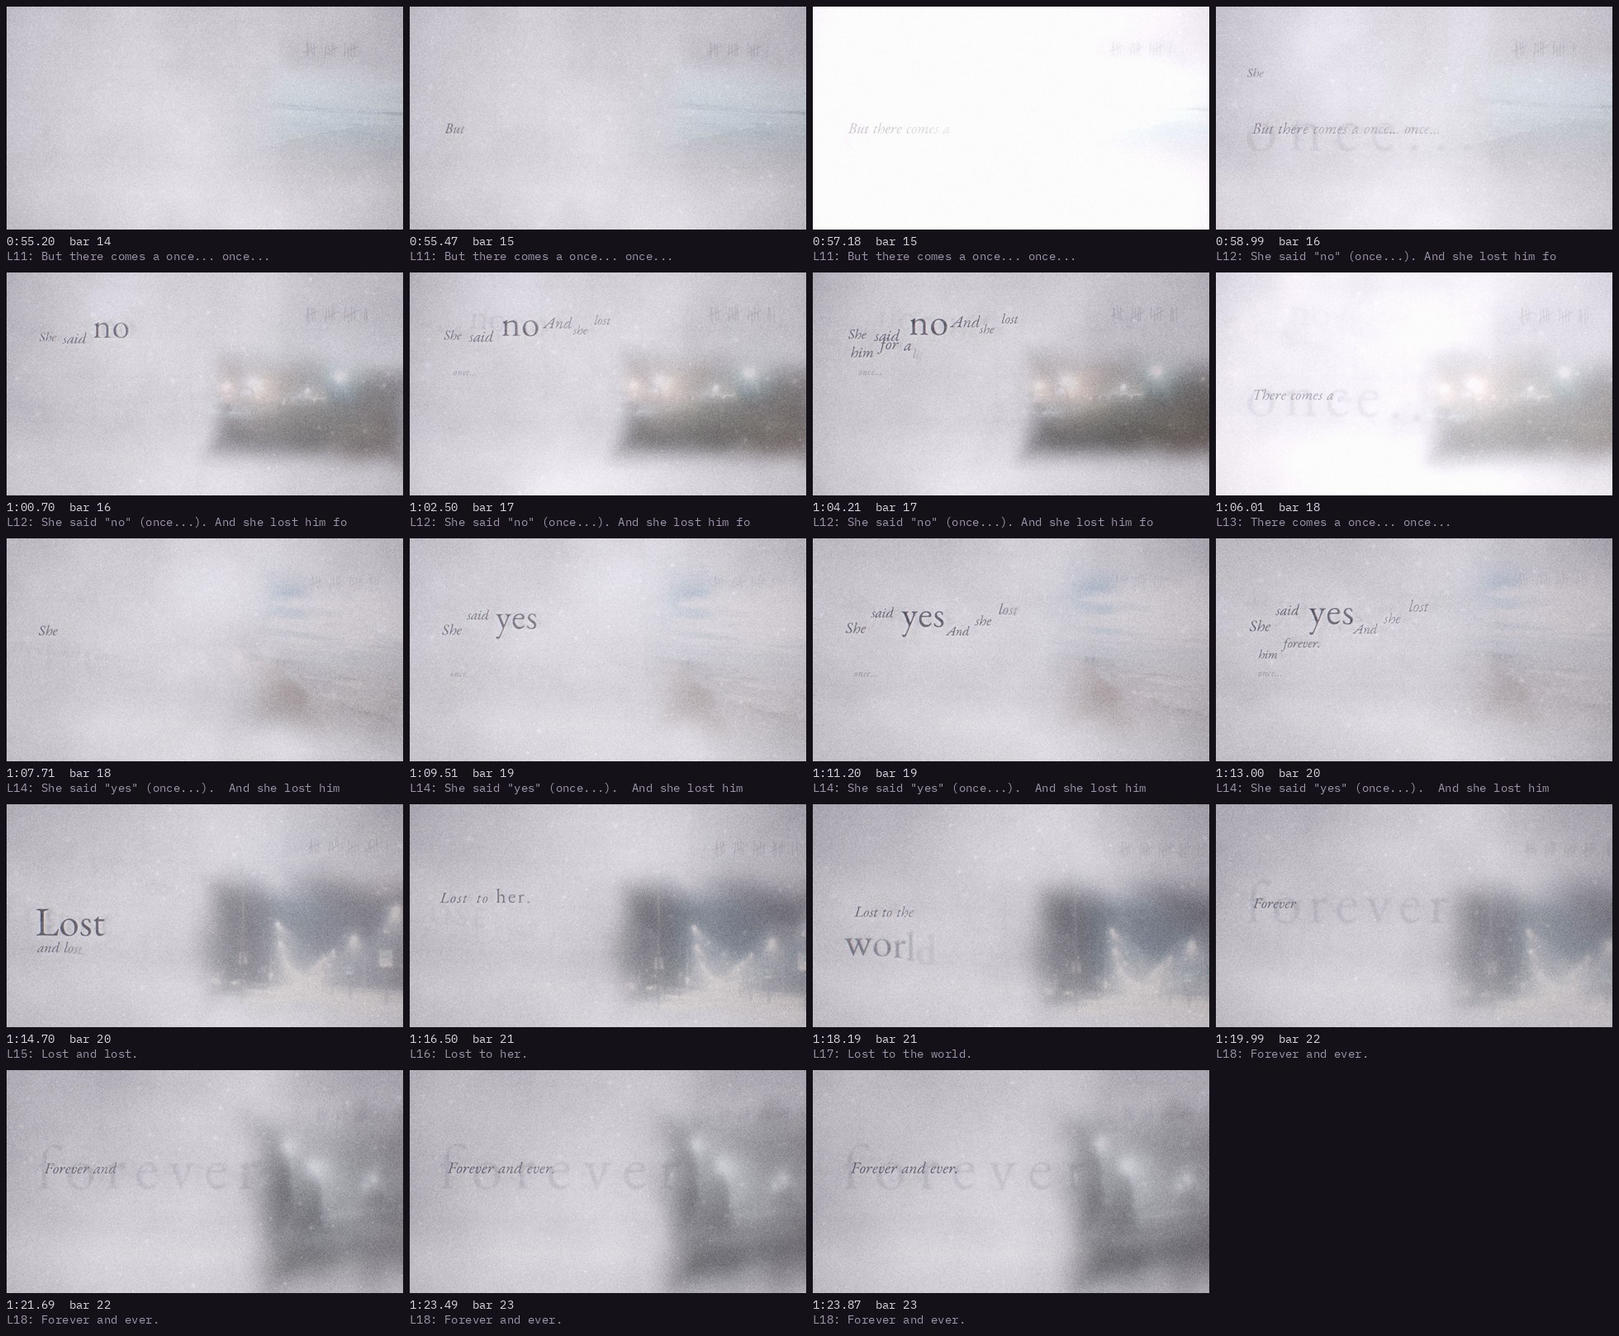
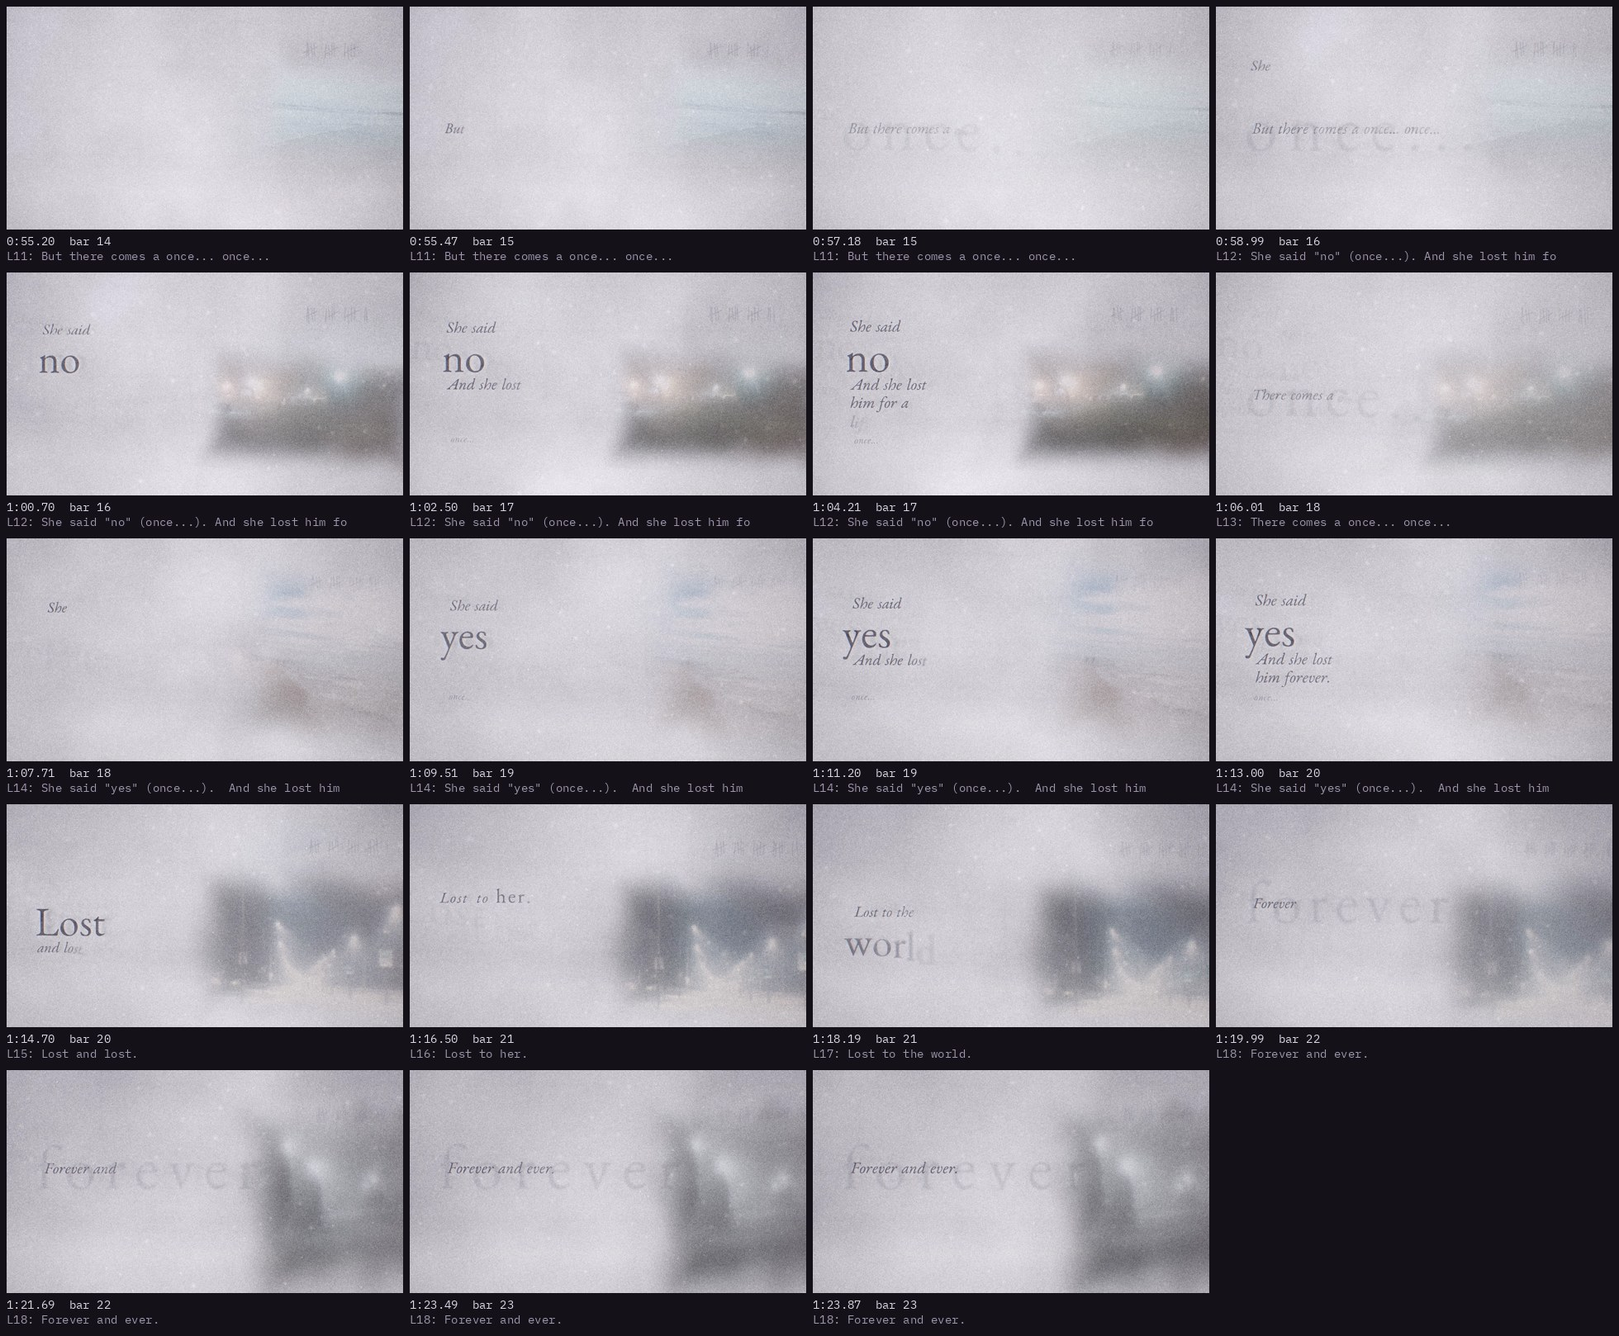
Build 'There comes a once' for review; cleaner layouts for lines 12 and 14
Claude-Session: https://claude.ai/code/session_013aPae8dR11r7xw8o95d9Yi

diff --git a/storyboard/index.html b/storyboard/index.html
@@ -142,7 +142,7 @@ ol.steps li::marker { font: 600 0.85rem var(--mono); color: var(--ink-2); }
   </header>
 
   <section aria-labelledby="h-built">
-    <div class="col"><span class="eyebrow">Built so far</span><h2 id="h-built">Rendered sections</h2></div>
+    <div class="col"><span class="eyebrow">Built so far</span><h2 id="h-built">The film</h2></div>
     <div class="frames">
 <figure class="render" id="render-verse_a">
   <video controls playsinline preload="metadata" poster="renders/verse_a_poster.jpg" width="1280" height="720">
@@ -151,6 +151,14 @@ ol.steps li::marker { font: 600 0.85rem var(--mono); color: var(--ink-2); }
   <figcaption><b>Verse A: Through eyes</b>
     <span class="tc">0:16.9 → 0:55.2 · bars 5–14</span>
     <span class="note">Kinetic typography (a designed shot per line, hero words, per-letter timing, camera through the type) over drifting memory photographs. Web copy at 720p; the 1080p master passed QA and ffprobe. <a href="renders/verse_a_contact.jpg">Contact sheet</a></span></figcaption>
+</figure>
+<figure class="render" id="render-there_comes_a_once">
+  <video controls playsinline preload="metadata" poster="renders/there_comes_a_once_poster.jpg" width="1280" height="720">
+    <source src="renders/there_comes_a_once.mp4" type="video/mp4">
+  </video>
+  <figcaption><b>There comes a once</b>
+    <span class="tc">0:55.2 → 1:24.2 · bars 15–23</span>
+    <span class="note">Two timelines: the &#x27;no&#x27; drifts left, the &#x27;yes&#x27; drifts right; each &#x27;once&#x27; flashes toward white; &#x27;lost to the world&#x27; pulls focus until nothing is sharp. Web copy at 720p; the 1080p master passed QA and ffprobe. <a href="renders/there_comes_a_once_contact.jpg">Contact sheet</a></span></figcaption>
 </figure></div>
   </section>
 
@@ -583,6 +591,21 @@ ol.steps li::marker { font: 600 0.85rem var(--mono); color: var(--ink-2); }
   </section>
 </div>
 
+<script src="https://cdnjs.cloudflare.com/ajax/libs/hls.js/1.5.13/hls.min.js"></script>
+<script>
+(function () {
+  const v = document.getElementById('film');
+  if (!v) return;
+  const src = v.dataset.src;
+  if (v.canPlayType('application/vnd.apple.mpegurl')) { v.src = src; return; }
+  if (window.Hls && Hls.isSupported()) {
+    const h = new Hls({ maxBufferLength: 30 });
+    h.loadSource(src); h.attachMedia(v);
+  } else {
+    v.insertAdjacentHTML('afterend', '<p class="note">This browser can’t stream the film. Try a recent Chrome, Firefox or Safari.</p>');
+  }
+})();
+</script>
 <script>
 const D = {"duration":493.6209977324263,"loud_t":0.5,"loud":[-47.0,-80.9,-60.6,-44.5,-39.1,-36.3,-33.6,-30.7,-28.0,-27.2,-27.0,-26.6,-26.8,-26.0,-24.4,-24.1,-24.0,-23.0,-23.1,-21.6,-19.4,-18.7,-19.1,-21.8,-23.9,-24.4,-25.6,-25.4,-24.3,-24.4,-23.7,-23.2,-22.7,-23.0,-23.6,-22.5,-20.9,-20.0,-19.8,-19.4,-20.0,-20.2,-19.6,-19.3,-19.4,-19.2,-19.6,-21.1,-21.5,-21.8,-20.6,-19.3,-19.1,-19.4,-20.7,-20.8,-18.9,-18.8,-20.3,-19.6,-19.8,-19.6,-18.9,-20.0,-19.6,-19.3,-19.3,-20.2,-21.0,-20.3,-19.4,-19.6,-19.8,-18.8,-19.3,-19.7,-19.1,-19.8,-20.5,-20.8,-20.3,-20.5,-21.3,-20.9,-19.7,-20.1,-21.0,-19.7,-19.5,-19.1,-18.7,-18.6,-18.3,-19.2,-19.5,-19.6,-19.4,-19.4,-19.2,-18.7,-20.4,-20.7,-19.5,-19.4,-19.7,-18.3,-17.4,-19.4,-21.7,-22.3,-22.4,-22.1,-21.6,-21.0,-19.7,-19.1,-18.8,-18.9,-19.1,-18.2,-18.4,-19.2,-18.6,-18.2,-18.2,-18.9,-18.6,-17.8,-17.4,-17.2,-17.7,-18.1,-19.0,-18.8,-18.6,-18.7,-17.7,-18.1,-18.6,-18.9,-18.6,-17.8,-17.5,-17.6,-18.3,-18.1,-17.7,-17.6,-18.0,-18.4,-17.7,-18.0,-17.8,-17.4,-17.8,-17.6,-17.2,-17.6,-18.4,-17.7,-17.5,-17.8,-18.6,-18.9,-17.7,-17.5,-17.3,-16.9,-17.1,-17.7,-18.2,-18.1,-17.5,-17.8,-18.1,-17.3,-17.4,-17.7,-17.1,-17.1,-16.9,-17.8,-17.6,-17.2,-17.5,-17.5,-17.9,-17.7,-17.5,-17.0,-16.9,-17.4,-17.5,-18.4,-18.9,-18.3,-17.1,-17.1,-17.4,-16.6,-17.3,-17.6,-16.9,-16.1,-16.5,-17.4,-17.1,-17.2,-17.3,-17.0,-16.1,-16.2,-16.9,-16.7,-17.3,-17.4,-16.4,-15.7,-16.1,-17.4,-17.6,-18.0,-18.2,-16.4,-15.7,-15.9,-15.7,-16.2,-17.5,-18.1,-18.7,-18.6,-19.4,-18.0,-16.2,-17.6,-18.0,-18.1,-18.2,-22.3,-22.2,-17.0,-16.5,-17.2,-17.2,-16.7,-17.2,-17.2,-17.6,-18.2,-17.6,-18.1,-17.2,-18.1,-19.3,-17.9,-17.7,-17.0,-16.5,-15.8,-15.5,-16.1,-17.0,-17.5,-17.4,-17.9,-17.2,-17.6,-18.6,-17.1,-16.2,-16.2,-16.4,-15.6,-15.1,-16.2,-17.1,-17.0,-16.9,-17.4,-16.6,-16.3,-17.0,-17.3,-16.9,-16.6,-16.2,-15.3,-15.8,-16.2,-16.6,-16.9,-16.8,-16.9,-16.2,-16.4,-16.5,-15.5,-15.2,-15.5,-15.3,-14.5,-14.8,-15.4,-15.6,-15.6,-15.4,-15.8,-16.1,-15.5,-15.6,-16.1,-16.4,-16.1,-15.1,-14.9,-14.8,-15.8,-16.2,-15.5,-15.4,-15.7,-16.0,-15.8,-17.0,-17.1,-16.8,-16.7,-15.6,-15.5,-15.3,-15.5,-15.3,-15.6,-15.9,-15.7,-15.8,-15.8,-16.2,-16.1,-15.8,-15.9,-15.3,-15.2,-15.0,-14.9,-15.6,-15.6,-15.5,-15.4,-15.8,-16.2,-16.2,-16.6,-16.0,-15.4,-15.2,-15.3,-15.4,-15.2,-15.7,-15.6,-15.2,-15.3,-15.7,-16.2,-18.4,-22.2,-22.6,-21.9,-23.3,-25.0,-22.7,-20.3,-21.3,-21.5,-22.4,-24.0,-22.9,-21.5,-21.7,-22.4,-22.6,-22.2,-21.2,-21.2,-21.5,-21.8,-21.1,-19.8,-20.1,-18.7,-16.5,-16.1,-16.5,-16.8,-16.6,-15.9,-15.8,-16.2,-16.5,-16.9,-16.8,-16.2,-15.6,-15.7,-16.0,-16.0,-16.4,-16.4,-16.0,-15.9,-15.8,-16.1,-16.2,-16.5,-16.9,-16.2,-15.7,-15.9,-16.5,-16.6,-17.0,-16.9,-16.1,-16.2,-16.0,-16.4,-16.6,-16.6,-16.3,-15.6,-15.7,-15.9,-16.3,-16.7,-16.8,-16.7,-16.0,-15.9,-16.2,-16.2,-16.5,-16.4,-16.4,-15.9,-16.0,-16.4,-16.5,-16.8,-16.6,-16.3,-16.1,-15.8,-16.0,-16.2,-16.9,-16.7,-15.8,-15.8,-15.9,-16.6,-16.8,-16.7,-16.6,-16.1,-16.2,-16.1,-16.3,-16.6,-16.5,-16.5,-15.8,-15.7,-16.1,-16.5,-16.6,-16.6,-16.3,-15.3,-15.6,-16.1,-15.5,-15.8,-15.9,-15.4,-14.8,-14.8,-15.5,-15.8,-16.4,-16.5,-15.7,-15.3,-15.4,-16.0,-15.7,-15.6,-15.6,-14.7,-15.0,-15.4,-15.7,-16.3,-16.6,-16.5,-15.6,-15.6,-16.1,-16.0,-16.4,-16.4,-15.7,-15.3,-15.2,-16.1,-16.6,-16.2,-15.6,-15.4,-15.3,-15.5,-16.2,-16.5,-16.2,-15.4,-15.3,-15.3,-15.1,-15.6,-15.9,-15.8,-15.6,-15.8,-15.8,-15.8,-16.2,-16.7,-16.2,-15.4,-16.0,-17.4,-19.4,-19.4,-22.8,-25.1,-19.5,-15.9,-16.1,-16.4,-16.6,-17.0,-16.3,-15.5,-15.7,-16.1,-16.0,-16.4,-16.5,-16.6,-16.8,-17.4,-17.4,-16.3,-16.0,-17.4,-18.8,-18.2,-18.3,-17.4,-16.0,-16.8,-17.2,-17.4,-17.8,-18.0,-18.0,-16.8,-16.7,-17.7,-17.5,-17.2,-17.3,-17.6,-16.8,-16.8,-17.4,-17.3,-17.2,-17.3,-17.6,-16.7,-16.3,-16.9,-17.0,-17.6,-17.6,-17.6,-17.3,-17.0,-18.8,-18.8,-18.3,-18.5,-17.6,-16.7,-17.0,-17.3,-16.6,-16.7,-17.2,-16.9,-16.6,-17.1,-17.4,-17.6,-17.1,-16.7,-16.8,-17.3,-17.3,-16.9,-16.4,-16.5,-16.9,-17.0,-17.7,-17.3,-16.2,-17.6,-17.7,-17.0,-17.1,-17.0,-17.7,-17.4,-17.8,-17.6,-16.8,-16.7,-17.0,-17.6,-17.1,-16.7,-16.9,-16.5,-16.4,-17.1,-17.6,-17.1,-16.9,-16.9,-16.8,-17.3,-16.9,-16.8,-16.9,-16.7,-17.1,-17.4,-17.6,-17.3,-16.6,-16.3,-16.6,-16.6,-16.2,-16.8,-17.5,-17.5,-18.3,-18.6,-18.1,-17.7,-18.0,-18.7,-18.6,-18.6,-18.4,-17.3,-17.1,-17.8,-18.0,-17.8,-17.8,-18.2,-17.7,-18.2,-19.6,-18.8,-18.3,-18.4,-17.8,-16.8,-17.5,-18.3,-17.7,-18.0,-17.8,-17.6,-17.6,-17.7,-18.7,-18.4,-18.6,-18.7,-17.7,-17.2,-17.3,-17.8,-18.1,-18.4,-18.4,-17.5,-17.7,-18.6,-18.8,-18.3,-17.7,-17.7,-18.1,-18.6,-18.5,-17.5,-18.0,-18.9,-18.4,-18.1,-18.6,-18.5,-17.5,-18.6,-19.1,-18.0,-17.7,-18.1,-18.4,-18.0,-18.7,-18.8,-17.9,-18.1,-18.6,-18.1,-18.2,-18.8,-18.8,-18.0,-18.2,-18.6,-18.1,-18.8,-19.2,-18.6,-17.8,-18.7,-19.5,-18.3,-18.5,-19.1,-18.6,-18.6,-18.4,-18.6,-18.7,-18.7,-18.6,-17.8,-18.1,-18.3,-18.4,-18.6,-18.3,-18.5,-18.2,-18.1,-18.4,-17.6,-17.3,-17.7,-18.3,-18.3,-18.4,-18.8,-18.3,-18.0,-17.7,-17.0,-16.7,-17.2,-17.7,-17.6,-17.4,-17.3,-16.7,-16.8,-17.9,-17.6,-17.9,-18.8,-18.6,-18.3,-18.0,-18.3,-17.6,-17.3,-17.8,-18.4,-18.5,-18.6,-19.1,-18.7,-18.6,-18.5,-17.9,-17.7,-17.9,-19.2,-19.1,-18.7,-18.5,-17.9,-18.3,-17.9,-17.6,-18.0,-18.5,-18.3,-17.2,-17.2,-17.8,-17.6,-17.6,-18.0,-18.5,-18.2,-17.7,-18.1,-17.8,-18.7,-19.3,-17.8,-17.3,-18.2,-18.9,-17.7,-17.7,-18.5,-17.8,-17.8,-19.1,-19.6,-18.1,-18.2,-18.4,-17.8,-18.7,-18.6,-17.0,-17.0,-18.3,-18.4,-17.4,-16.6,-17.2,-18.0,-17.7,-17.3,-18.4,-18.3,-18.1,-18.4,-17.4,-17.2,-17.9,-18.9,-18.2,-17.9,-18.8,-18.5,-18.9,-19.0,-19.0,-18.4,-17.4,-18.1,-18.3,-19.0,-19.2,-18.9,-18.5,-17.4,-18.2,-18.4,-18.7,-19.2,-18.1,-17.5,-18.0,-21.7,-25.5,-22.3,-19.1,-21.2,-21.3,-19.6,-18.5,-17.5,-17.4,-17.3,-17.0,-17.5,-17.4,-17.2,-17.2,-17.0,-17.6,-17.8,-17.5,-17.5,-18.0,-18.1,-18.1,-18.1,-17.3,-17.0,-17.6,-17.7,-17.5,-17.2,-17.4,-17.4,-18.1,-18.9,-18.1,-18.2,-18.3,-17.5,-17.0,-17.6,-18.4,-17.8,-18.0,-18.4,-17.6,-17.5,-18.2,-18.3,-17.7,-17.8,-18.0,-17.5,-17.5,-17.3,-16.9,-17.5,-18.0,-17.5,-17.2,-18.7,-18.9,-17.1,-17.3,-17.2,-17.1,-17.0,-16.7,-17.0,-16.8,-16.8,-16.8,-16.7,-16.6,-16.3,-16.9,-17.0,-16.7,-16.7,-16.2,-16.3,-16.7,-16.6,-16.3,-16.7,-20.1,-27.7,-36.8,-26.0],"bars":[0.418,3.3672,6.828,10.3616,13.9019,20.0866,23.6284,27.166,30.705,34.2453,37.7775,41.3056,44.8364,48.3672,51.8966,55.4247,58.9432,62.4535,65.9583,69.4563,72.9503,76.4456,79.9436,83.4389,84.3103,87.7974,91.2804,94.7606,98.2423,101.7212,105.1932,106.9279,110.4013,113.898,116.5382,120.0677,123.5971,127.1156,130.6327,134.1458,137.6424,141.1268,144.6016,148.0764,151.5416,155.0014,158.4543,161.9045,165.3575,168.8063,172.2511,175.6876,179.1187,182.5498,183.4076,186.8428,190.2739,193.7063,196.2769,199.6971,203.12,206.5429,209.9617,213.3764,216.7911,220.2071,223.6136,227.0119,230.4089,233.8045,237.1973,240.5874,243.9748,247.3581,250.74,255.8019,259.1688,262.4565,264.5067,266.5774,269.8992,271.5341,276.0757,279.4877,282.9037,283.756,287.168,290.5745,293.9837,297.3998,300.8131,304.2251,307.6357,311.0477,314.4569,317.8648,321.2699,324.671,328.072,331.4676,334.0122,337.401,340.7856,344.173,347.5604,350.9437,354.3283,357.7075,361.0908,367.0132,370.3938,373.7757,377.1563,380.5368,383.9146,387.2952,390.673,394.0467,396.5832,399.961,403.332,406.7002,410.0767,413.4559,416.8378,417.686,421.0884,424.5086,427.9369,431.3653,434.7977,438.2288,441.6572,445.0883,448.5194,451.9491,452.8055,456.2325,459.6581,463.0865,466.5039,469.9036,473.2882,476.6715,480.0575,483.4449,486.8296,490.206,493.5634],"sections":[{"name":"Intro","start":0.0,"end":16.92,"world":"void","bar":0},{"name":"Verse A: Through eyes","start":16.92,"end":55.2,"world":"her","bar":5},{"name":"There comes a once","start":55.2,"end":84.15,"world":"memory","bar":15},{"name":"Refrain I: Stay lost now girl","start":84.15,"end":106.35,"world":"her","bar":24},{"name":"Break I","start":106.35,"end":116.47,"world":"institute","bar":31},{"name":"White Coats I","start":116.47,"end":151.81,"world":"institute","bar":34},{"name":"They brought a man","start":151.81,"end":183.43,"world":"memory","bar":45},{"name":"Spoken I: I can help you find","start":183.43,"end":195.57,"world":"memory","bar":55},{"name":"Break II","start":195.57,"end":208.42,"world":"memory","bar":58},{"name":"White Coats II","start":208.42,"end":252.73,"world":"institute","bar":62},{"name":"A gun and a bullet","start":252.73,"end":273.81,"world":"institute","bar":75},{"name":"Spoken II: I won't lose you","start":273.81,"end":283.79,"world":"memory","bar":82},{"name":"The Run","start":283.79,"end":318.0,"world":"run","bar":86},{"name":"But...","start":318.0,"end":332.45,"world":"void","bar":96},{"name":"White Coats III","start":332.45,"end":363.99,"world":"institute","bar":100},{"name":"The Cutting","start":363.99,"end":396.63,"world":"memory","bar":109},{"name":"Refrain II: Stay lost now girl","start":396.63,"end":417.57,"world":"her","bar":119},{"name":"Verse A reprise","start":417.57,"end":452.07,"world":"her","bar":125},{"name":"Outro","start":452.07,"end":493.621,"world":"void","bar":136}],"lines":[{"n":1,"s":16.92,"e":20.3,"x":"Through eyes that were hers and weren't","pin":true},{"n":2,"s":20.45,"e":24.02,"x":"Through years that weren't hers and were","pin":true},{"n":3,"s":24.02,"e":27.46,"x":"Left in rooms she couldn't leave","pin":false},{"n":4,"s":27.46,"e":30.86,"x":"Learning a self she couldn't learn","pin":false},{"n":5,"s":30.86,"e":35.28,"x":"And a voice came to her (sweet, so sweet)","pin":false},{"n":6,"s":35.28,"e":42.96,"x":"A hand, as ever as it was once (good, so good)","pin":false},{"n":7,"s":43.7,"e":46.96,"x":"She got lost inside him","pin":false},{"n":8,"s":46.96,"e":50.52,"x":"Lost and lost inside him","pin":false},{"n":9,"s":50.52,"e":54.04,"x":"Like she swore she never would.","pin":false},{"n":11,"s":55.2,"e":58.68,"x":"But there comes a once... once...","pin":false},{"n":12,"s":58.68,"e":64.7,"x":"She said \"no\" (once...). And she lost him for a lifetime.","pin":false},{"n":13,"s":64.7,"e":67.28,"x":"There comes a once... once...","pin":false},{"n":14,"s":67.28,"e":73.28,"x":"She said \"yes\" (once...).  And she lost him forever.","pin":false},{"n":15,"s":73.28,"e":75.12,"x":"Lost and lost.","pin":false},{"n":16,"s":75.38,"e":76.6,"x":"Lost to her.","pin":false},{"n":17,"s":76.6,"e":78.47,"x":"Lost to the world.","pin":false},{"n":18,"s":78.47,"e":84.15,"x":"Forever and ever.","pin":false},{"n":20,"s":84.15,"e":89.29,"x":"Stay lost now girl (forever, forever)","pin":false},{"n":21,"s":89.29,"e":92.49,"x":"Throw away everything he found","pin":false},{"n":22,"s":92.49,"e":97.75,"x":"So he never got lost inside you. (again, again)","pin":false},{"n":23,"s":97.75,"e":104.65,"x":"Forever again, forever again.","pin":false},{"n":24,"s":105.17,"e":106.35,"x":"Never again...","pin":false},{"n":26,"s":116.47,"e":118.69,"x":"The white coats said:","pin":false},{"n":27,"s":118.69,"e":123.05,"x":"We've found a girl who is very lost.","pin":false},{"n":28,"s":123.05,"e":126.91,"x":"Scribble scribble, stab stab the charts.","pin":false},{"n":29,"s":126.91,"e":130.23,"x":"Keep her safe in a nice white room.","pin":false},{"n":30,"s":130.23,"e":133.95,"x":"Scribble scribble, stab stab the charts.","pin":false},{"n":31,"s":133.95,"e":137.79,"x":"We\u2019ll find out HOW lost she really is.","pin":false},{"n":32,"s":137.79,"e":140.97,"x":"With time, with time...","pin":false},{"n":33,"s":141.35,"e":144.63,"x":"With time we can find anything.","pin":false},{"n":34,"s":144.63,"e":147.87,"x":"With time, with time...","pin":false},{"n":35,"s":147.87,"e":151.81,"x":"Even a girl who is very hard to find.","pin":false},{"n":37,"s":151.81,"e":153.39,"x":"They brought a man.","pin":false},{"n":38,"s":154.45,"e":158.85,"x":"A man who could find someone hard to find.","pin":false},{"n":39,"s":158.85,"e":164.09,"x":"And in the end, he found, oh he found...","pin":false},{"n":40,"s":164.09,"e":168.99,"x":"...something VERY hard to find (in her).","pin":false},{"n":41,"s":170.65,"e":176.19,"x":"And in the end, she found, oh she found...","pin":false},{"n":42,"s":176.19,"e":181.55,"x":"Her forever. And ever... (in him).","pin":false},{"n":44,"s":183.43,"e":188.85,"x":"\"I can help you find protecting, trusting and believing","pin":false},{"n":45,"s":190.63,"e":195.57,"x":"Even if they're very hard to find.\"","pin":false},{"n":47,"s":208.42,"e":212.26,"x":"But with time, with time,","pin":false},{"n":48,"s":213.12,"e":214.74,"x":"the white coats said:","pin":false},{"n":49,"s":214.74,"e":217.14,"x":"Hmm... this girl is too lost.","pin":false},{"n":50,"s":217.66,"e":222.26,"x":"Scribble scribble, stab stab the charts.","pin":false},{"n":51,"s":224.09,"e":229.23,"x":"This girl is too hard to find.","pin":false},{"n":52,"s":231.05,"e":235.91,"x":"Scribble scribble, stab stab the charts.","pin":false},{"n":53,"s":237.09,"e":240.37,"x":"With time, with time...","pin":false},{"n":54,"s":240.37,"e":244.23,"x":"We found she isn't worth the time.","pin":false},{"n":55,"s":244.23,"e":247.19,"x":"With time, with time...","pin":false},{"n":56,"s":247.19,"e":251.25,"x":"This girl who is very hard to find.","pin":false},{"n":58,"s":252.73,"e":256.03,"x":"And with time, and with time,","pin":false},{"n":59,"s":256.03,"e":260.29,"x":"The white coats brought the man a gun and a bullet","pin":false},{"n":60,"s":260.29,"e":264.37,"x":"And said \"go and find that girl.\"","pin":false},{"n":61,"s":264.37,"e":266.05,"x":"And he did,","pin":false},{"n":62,"s":266.73,"e":267.79,"x":"he did...","pin":false},{"n":63,"s":267.79,"e":270.27,"x":"He found her,","pin":false},{"n":64,"s":270.31,"e":272.61,"x":"he found her...","pin":false},{"n":66,"s":273.81,"e":275.99,"x":"\"I won't lose you.","pin":false},{"n":67,"s":275.99,"e":279.69,"x":"Together, we'll find you the time.\"","pin":false},{"n":69,"s":283.79,"e":288.57,"x":"And they ran... ran... ran...","pin":false},{"n":70,"s":289.15,"e":291.25,"x":"Forever and ever.","pin":false},{"n":71,"s":291.25,"e":295.11,"x":"Through every tunnel, every motel.","pin":false},{"n":72,"s":295.11,"e":298.65,"x":"Lost in diners, lost in alleys...","pin":false},{"n":73,"s":298.65,"e":300.51,"x":"Lost in each other.","pin":false},{"n":74,"s":300.51,"e":302.91,"x":"And found. (And found...)","pin":false},{"n":75,"s":303.81,"e":307.19,"x":"Lost and found, found and lost...","pin":false},{"n":76,"s":307.87,"e":312.42,"x":"Forever and ever and ever.","pin":false},{"n":78,"s":318.0,"e":319.4,"x":"But\u2026","pin":true},{"n":80,"s":319.58,"e":324.27,"x":"But forever... always comes to an end,","pin":false},{"n":81,"s":324.39,"e":327.41,"x":"when the coats... come round the bend.","pin":false},{"n":83,"s":332.45,"e":334.104,"x":"And the coats said:","pin":false},{"n":84,"s":334.45,"e":337.15,"x":"Hmm... this man is too lost.","pin":false},{"n":85,"s":337.17,"e":340.03,"x":"Scribble scribble, stab stab the charts.","pin":false},{"n":86,"s":340.13,"e":343.63,"x":"We\u2019ll have to cut out his something hard to find.","pin":false},{"n":87,"s":343.99,"e":346.91,"x":"Scribble scribble, stab stab the charts.","pin":false},{"n":88,"s":347.13,"e":348.53,"x":"With time, with time","pin":false},{"n":89,"s":348.57,"e":351.27,"x":"We'll see how lost this girl can be.","pin":false},{"n":90,"s":351.93,"e":353.55,"x":"With time, with time","pin":false},{"n":91,"s":353.65,"e":357.73,"x":"We'll make her a girl who can find ANYTHING.","pin":false},{"n":92,"s":357.73,"e":361.49,"x":"Except... something hard to find.","pin":false},{"n":94,"s":363.99,"e":367.35,"x":"They cut away his protecting.","pin":false},{"n":95,"s":367.35,"e":370.75,"x":"They cut away his trusting.","pin":false},{"n":96,"s":370.75,"e":374.05,"x":"They cut away his believing.","pin":false},{"n":97,"s":374.05,"e":377.31,"x":"But left him the gun\u2026 and the bullet.","pin":false},{"n":99,"s":377.31,"e":379.67,"x":"They took her arms to hug,","pin":false},{"n":100,"s":379.67,"e":381.41,"x":"They took her legs to run,","pin":false},{"n":101,"s":381.41,"e":384.91,"x":"Her eyes to see and ears to hear...","pin":false},{"n":102,"s":384.91,"e":388.43,"x":"But left her the years (and years and years)...","pin":false},{"n":103,"s":388.43,"e":390.89,"x":"Alone, with time... with time...","pin":false},{"n":104,"s":390.89,"e":394.49,"x":"And all her agains and agains and agains...","pin":false},{"n":105,"s":394.49,"e":396.63,"x":"Of him...  and her...","pin":false},{"n":107,"s":396.63,"e":401.25,"x":"Stay lost now girl (forever, forever)","pin":false},{"n":108,"s":401.71,"e":405.61,"x":"Throw away everything he could find","pin":false},{"n":109,"s":405.61,"e":410.49,"x":"So he never got lost inside you. (again, again)","pin":false},{"n":110,"s":410.49,"e":415.57,"x":"Forever again, forever again.","pin":false},{"n":111,"s":415.81,"e":417.57,"x":"Never again...","pin":false},{"n":113,"s":417.57,"e":421.11,"x":"Through eyes that were hers and weren't","pin":false},{"n":114,"s":421.33,"e":425.07,"x":"Through years that weren't hers and were","pin":false},{"n":115,"s":425.07,"e":428.27,"x":"Left in rooms she couldn't leave","pin":false},{"n":116,"s":428.27,"e":431.41,"x":"Learning a self she couldn't learn","pin":false},{"n":117,"s":431.41,"e":435.77,"x":"And a voice came to her (sweet, so sweet)","pin":false},{"n":118,"s":435.77,"e":441.01,"x":"A hand, as ever as it was once (good, so good)","pin":false},{"n":119,"s":441.01,"e":444.47,"x":"She got lost inside him","pin":false},{"n":120,"s":444.55,"e":448.05,"x":"Lost and lost inside him","pin":false},{"n":121,"s":448.05,"e":452.07,"x":"Like she swore she never would.","pin":false}],"frames":[{"key":"A","t":46.3,"section":"Verse A: Through eyes"},{"key":"B","t":125.9,"section":"White Coats I"},{"key":"C","t":368.3,"section":"The Cutting"}]};
 (function () {

diff --git a/video/sections.py b/video/sections.py
@@ -180,8 +180,8 @@ def intro(t, T, lines):
     return img, post("bleach", exposure=0.95)
 
 
-ONCE_SHOTS = {11: dict(style="hero", hero=4), 12: dict(style="depth", hero=2),
-              13: dict(style="hero", hero=3), 14: dict(style="depth", hero=2),
+ONCE_SHOTS = {11: dict(style="hero", hero=4), 12: dict(style="stack", hero=2),
+              13: dict(style="hero", hero=3), 14: dict(style="stack", hero=2),
               15: dict(style="stack", hero=0), 16: dict(style="track", hero=2),
               17: dict(style="stack", hero=3), 18: dict(style="hero", hero=0)}
 

diff --git a/storyboard/spec.py b/storyboard/spec.py
@@ -204,4 +204,6 @@ STYLE_FRAMES = [
 RENDERS = [
     ("verse_a", "Verse A: Through eyes",
      "Kinetic typography (a designed shot per line, hero words, per-letter timing, camera through the type) over drifting memory photographs. Web copy at 720p; the 1080p master passed QA and ffprobe."),
+    ("there_comes_a_once", "There comes a once",
+     "Two timelines: the 'no' drifts left, the 'yes' drifts right; each 'once' flashes toward white; 'lost to the world' pulls focus until nothing is sharp. Web copy at 720p; the 1080p master passed QA and ffprobe."),
 ]
